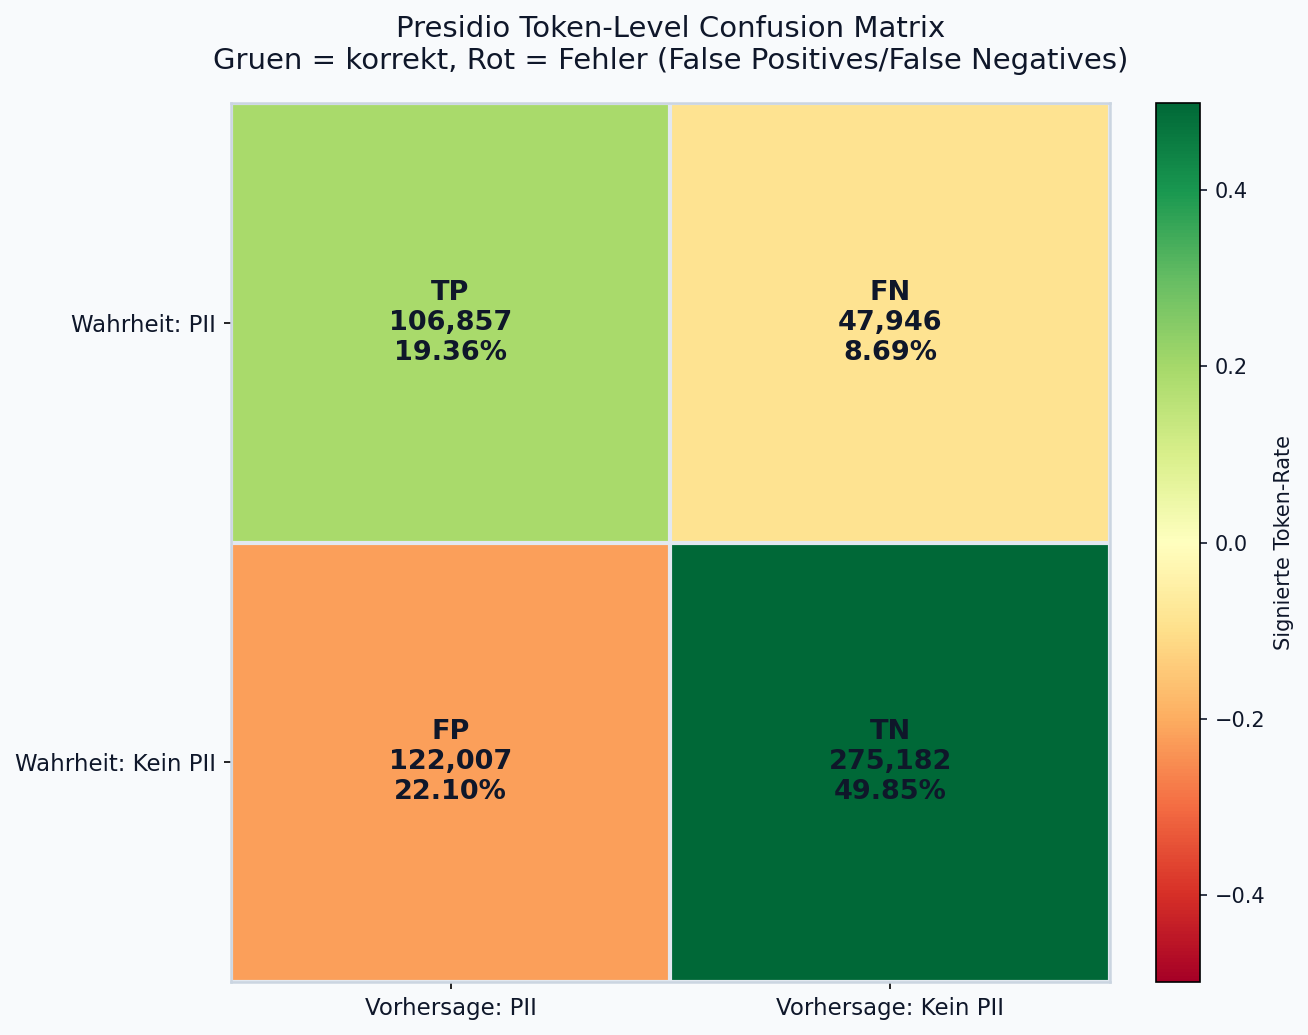
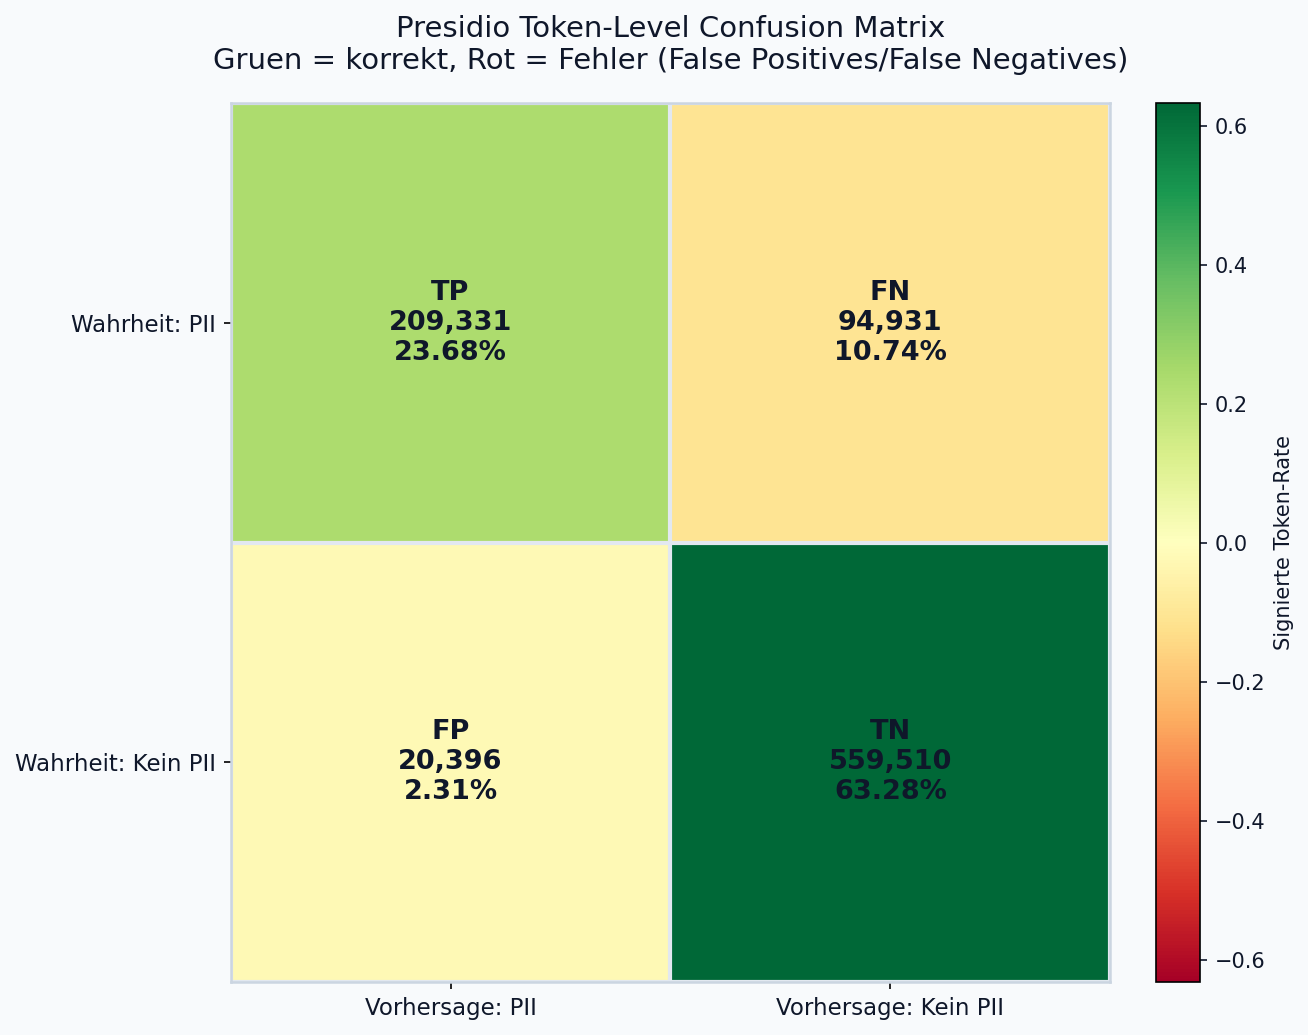
Initial commit

diff --git a/benchmark_presidio.py b/benchmark_presidio.py
@@ -73,37 +73,51 @@ def parse_args() -> argparse.Namespace:
     )
     parser.add_argument("--dataset", default="ai4privacy/open-pii-masking-500k-ai4privacy")
     parser.add_argument("--split", default="validation")
-    parser.add_argument("--language", default="de")
+    parser.add_argument(
+        "--language",
+        choices=["de", "en", "fr"],
+        default=None,
+        help="Sprache fuer Presidio, den Datensatzfilter und die Ausgabedateien.",
+    )
     parser.add_argument("--score-threshold", type=float, default=0.35)
     parser.add_argument("--max-samples", type=int, default=0, help="0 = all samples")
     parser.add_argument(
         "--filter-language",
-        default="de",
+        default=None,
         help="Filter auf eine Datensatzsprache, z. B. de oder en.",
     )
     parser.add_argument(
         "--plot-path",
-        default="benchmark_presidio_confusion_matrix.png",
+        default=None,
         help="Dateipfad fuer den gespeicherten Confusion-Matrix-Plot.",
     )
     parser.add_argument(
         "--output-path",
-        default="benchmark_presidio_results.txt",
+        default=None,
         help="Dateipfad fuer den gespeicherten Text-Report der Metriken.",
     )
-    return parser.parse_args()
+    args = parser.parse_args()
+    language = (args.language or args.filter_language or "de").strip().lower()
+    args.language = language
+    args.filter_language = language
+    if args.plot_path is None:
+        args.plot_path = f"benchmark_presidio_confusion_matrix_{language}.png"
+    if args.output_path is None:
+        args.output_path = f"benchmark_presidio_results_{language}.txt"
+    return args
 
 
 def build_analyzer(language: str) -> AnalyzerEngine:
     spacy_models = {
         "de": "de_core_news_lg",
-        "en": "en_core_web_sm",
-        "fr": "fr_core_news_sm",
+        "en": "en_core_web_lg",
+        "fr": "fr_core_news_lg",
     }
     model_name = spacy_models.get(language)
     if model_name is None:
         supported = ", ".join(sorted(spacy_models))
         raise ValueError(f"Unsupported language '{language}'. Supported languages: {supported}.")
+    print(f"Using spaCy model for language '{language}': {model_name}")
 
     configuration = {
         "nlp_engine_name": "spacy",
@@ -248,6 +262,9 @@ def format_pct(value: float) -> str:
 
 
 def plot_confusion_matrix(metrics: TokenMetrics, output_path: str, title: str) -> None:
+    output = Path(output_path)
+    output.parent.mkdir(parents=True, exist_ok=True)
+
     counts = np.array(
         [
             [metrics.tp, metrics.fn],
@@ -317,7 +334,7 @@ def plot_confusion_matrix(metrics: TokenMetrics, output_path: str, title: str) -
     plt.setp(cbar.ax.get_yticklabels(), color="#0f172a")
 
     fig.tight_layout()
-    fig.savefig(output_path, bbox_inches="tight")
+    fig.savefig(output, bbox_inches="tight")
     plt.close(fig)
 
 
@@ -329,9 +346,11 @@ def main() -> None:
     if args.filter_language and "language" in dataset.column_names:
         lang = args.filter_language.strip().lower()
         dataset = dataset.filter(lambda row: str(row.get("language", "")).lower() == lang)
+        print(f"Filtered dataset language: {lang}")
 
     if args.max_samples > 0:
         dataset = dataset.select(range(min(args.max_samples, len(dataset))))
+    print(f"Samples after filtering: {len(dataset)}")
 
     token_metrics = TokenMetrics()
     span_metrics = SpanMetrics()
@@ -365,6 +384,7 @@ def main() -> None:
 
     report_lines = [
         "==== Presidio Benchmark (ai4privacy/open-pii-masking-500k-ai4privacy) ====",
+        f"Language: {args.language}",
         f"Samples: {len(dataset)}",
         f"Scope Precision (tokens): {format_pct(token_metrics.precision)}",
         f"Recall (tokens):          {format_pct(token_metrics.recall)}",

diff --git a/README.md b/README.md
@@ -57,7 +57,7 @@ python .\benchmark_privacy-filter.py --dataset ai4privacy/open-pii-masking-500k-
 
 Presidio (alle `de` Samples, inkl. Report + Plot):
 ```powershell
-python .\benchmark_presidio.py --dataset ai4privacy/open-pii-masking-500k-ai4privacy --split validation --language de --filter-language de --max-samples 0 --output-path .\benchmark_presidio_results_de.txt --plot-path .\benchmark_presidio_confusion_matrix_de.png
+python .\benchmark_presidio.py --dataset ai4privacy/open-pii-masking-500k-ai4privacy --split validation --language de --max-samples 0
 ```
 
 AI4Privacy-Modell (alle `de` Samples, inkl. Report + Plot):
